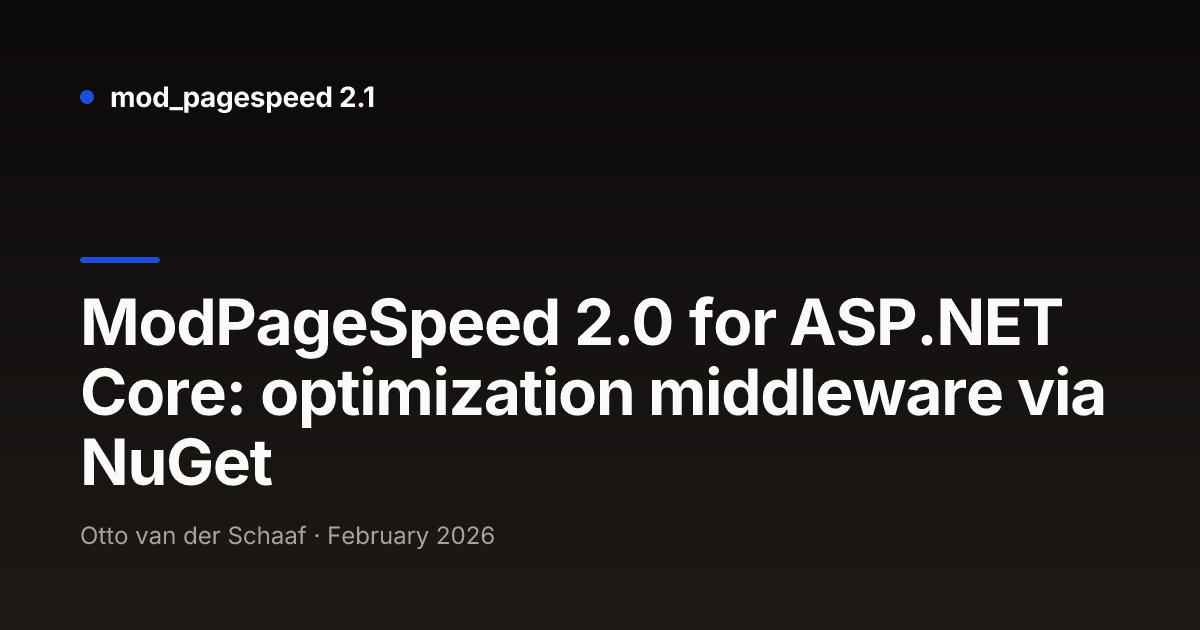
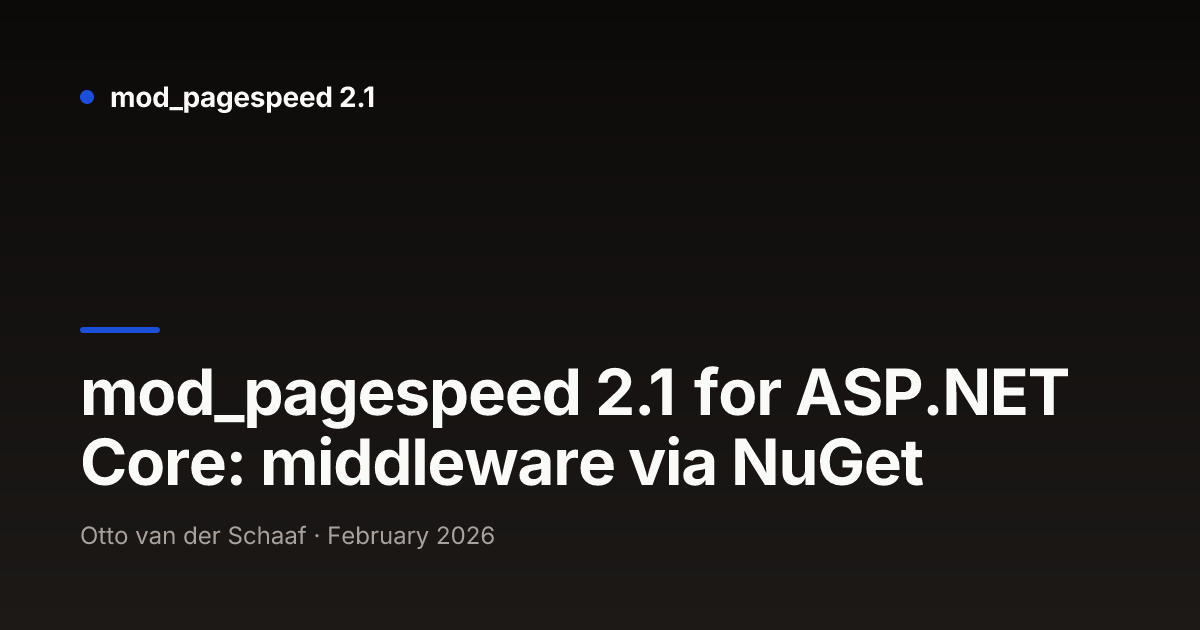
feat(website): structured data, breadcrumbs and 2.1 framing
- Split the duplicate security titles: /security/ is "Security policy and
  vulnerability reporting", /docs/security/ is "Security hardening guide".
- BreadcrumbList names the last item from the page title instead of a
  title-cased slug, and falls back to sentence case with acronyms kept
  ("AI readability", not "Ai Readability").
- SoftwareApplication JSON-LD on pricing, download and the alternatives
  pages: operatingSystem Linux and Windows, softwareVersion from the 2.1
  release manifest.
- Evergreen posts written for the 2.0 line: retitled where the content
  holds for 2.1 (ASP.NET Core middleware, cache key derivation), otherwise
  a note at the top that points at the 2.1 docs (benchmarks, Docker
  Compose, migration).
- The migration post is retitled toward 2.1 and points at the 2.1
  migration docs; "Google's mod_pagespeed" becomes "the original" or "the
  archived" mod_pagespeed everywhere it appeared.
- Regenerated llms.txt and llms-full.txt.

Changed region(s): [[0.0617, 0.4524, 0.925, 0.7841], [0.0617, 0.3921, 0.1233, 0.4222]]

diff --git a/website/src/content/blog/migrating-from-1x.md b/website/src/content/blog/migrating-from-1x.md
@@ -1,6 +1,6 @@
 ---
-title: "Migrate from Google's mod_pagespeed / ngx_pagespeed to ModPageSpeed 2.0"
-description: "Migrate from Google's mod_pagespeed 1.13.x or ngx_pagespeed to ModPageSpeed 2.0: directive mapping, Docker Compose setup, image-format checks, and a verification checklist."
+title: 'Migrate from mod_pagespeed 1.13 or ngx_pagespeed to 2.1'
+description: 'Migrating from the archived mod_pagespeed 1.13.x or ngx_pagespeed: directive mapping, image-format checks, a verification checklist, and the 2.1 path.'
 date: 2026-02-10
 author: 'Otto van der Schaaf'
 tags: ['migration', 'guide', 'nginx']
@@ -8,27 +8,29 @@ draft: false
 lastUpdated: 2026-09-06
 product: '2.0'
 faq:
-  - q: "Can I run Google's 1.13.x and 2.0 side by side?"
+  - q: "Can I run the archived 1.13.x and 2.0 side by side?"
     a: "Yes. Deploy them on different servers or different nginx server blocks. They share no state, so there is no conflict."
   - q: "Do I need to change my HTML or application code?"
     a: "No. All optimization is transparent at the reverse-proxy level. Your application serves the same responses it always has."
   - q: "Will my existing cache be preserved?"
-    a: "No. The optimizer worker uses Cyclone, a different cache format from Google's 1.13.x file cache. The cache will be cold on first start and warm up as traffic flows through."
+    a: "No. The optimizer worker uses Cyclone, a different cache format from the 1.13.x file cache. The cache will be cold on first start and warm up as traffic flows through."
 ---
+
+> Written for the ModPageSpeed 2.0 line: the Docker Compose setup and the `pagespeed_*` directives below are 2.0's. On mod_pagespeed 2.1 a 1.13 or ngx_pagespeed configuration carries over to the native module; see [migrate from the archived Google module](/docs/migrate-from-google-mod-pagespeed/) and [migrate from ngx_pagespeed](/docs/migrate-from-ngx-pagespeed/).
 
 ## What changed and why
 
-Google's mod_pagespeed 1.13.x was built around the RewriteDriver -- over 2,000 lines of orchestration code that managed a pipeline of 60+ filters, each modifying the HTML response in sequence during the request. Filters had strict ordering dependencies: `combine_css` ran before `rewrite_css`, which ran before `inline_css`, and so on. Adding a filter meant reasoning about how it interacted with every existing one.
+The original mod_pagespeed 1.13.x was built around the RewriteDriver -- over 2,000 lines of orchestration code that managed a pipeline of 60+ filters, each modifying the HTML response in sequence during the request. Filters had strict ordering dependencies: `combine_css` ran before `rewrite_css`, which ran before `inline_css`, and so on. Adding a filter meant reasoning about how it interacted with every existing one.
 
 The architecture was designed for Apache. It hooked into Apache's output filter chain, and the nginx port (`ngx_pagespeed`) adapted the filter pipeline to nginx's event-driven model. This translation layer added significant maintenance overhead, particularly around subrequest handling and connection lifecycle management.
 
 ModPageSpeed 2.0 takes a different architectural approach. The underlying optimization libraries -- the HTML parser, CSS minifier, JS minifier, and image codecs -- are individually well-tested and capable (and form the foundation of 2.0). The key change is moving orchestration out of the request path entirely, into a separate worker that optimizes content asynchronously.
 
-2.0 is a ground-up rethink: it keeps the proven PSOL optimization libraries and replaces the architecture around them. If you are running Google's mod_pagespeed 1.13.x today, this guide will walk you through what changed and how to migrate.
+2.0 is a ground-up rethink: it keeps the proven PSOL optimization libraries and replaces the architecture around them. If you are running the archived mod_pagespeed 1.13.x today, this guide will walk you through what changed and how to migrate.
 
 ## Architecture comparison
 
-Google's mod_pagespeed 1.13.x processed everything synchronously within the request:
+The original mod_pagespeed 1.13.x processed everything synchronously within the request:
 
 ```
 Client -> Apache/Nginx -> mod_pagespeed filters (sync) -> Origin
@@ -53,15 +55,15 @@ Client -> Nginx interceptor -> Cyclone Cache (mmap) -> Client
 
 The differences are significant:
 
-**Synchronous vs. asynchronous.** In Google's 1.13.x, every response was transformed in-flight, adding latency to every request. In 2.0, the first request gets the original response (served from cache with `X-PageSpeed: MISS`), and the worker optimizes it in the background. Subsequent requests get the optimized variant (`X-PageSpeed: HIT`) with zero processing overhead -- just a memory-mapped cache read.
+**Synchronous vs. asynchronous.** In the original 1.13.x, every response was transformed in-flight, adding latency to every request. In 2.0, the first request gets the original response (served from cache with `X-PageSpeed: MISS`), and the worker optimizes it in the background. Subsequent requests get the optimized variant (`X-PageSpeed: HIT`) with zero processing overhead -- just a memory-mapped cache read.
 
-**Single-process vs. multi-process.** In Google's 1.13.x, the optimization code ran inside the web server process. In 2.0, the nginx interceptor is a thin cache layer, and the worker is a separate process. They share a single Cyclone cache file with memory-mapped directories (`enable_mmap_directory = true`), so writes from either process are immediately visible to the other.
+**Single-process vs. multi-process.** In the original 1.13.x, the optimization code ran inside the web server process. In 2.0, the nginx interceptor is a thin cache layer, and the worker is a separate process. They share a single Cyclone cache file with memory-mapped directories (`enable_mmap_directory = true`), so writes from either process are immediately visible to the other.
 
 **Filter pipeline vs. content-type dispatch.** Instead of 60+ filters with ordering dependencies, the worker dispatches on content type: HTML, CSS, JavaScript, or Image. Each path runs independently. There is no filter interaction to reason about.
 
 ## Configuration mapping
 
-Many of Google's mod_pagespeed 1.13.x directives have no direct equivalent because 2.0 applies optimizations automatically based on content type. Here is a mapping of the most commonly used directives:
+Many of the original mod_pagespeed 1.13.x directives have no direct equivalent because 2.0 applies optimizations automatically based on content type. Here is a mapping of the most commonly used directives:
 
 | 1.13.x Directive                                     | 2.0 Equivalent                 | Notes                                                                                                             |
 | ---------------------------------------------------- | ------------------------------ | ----------------------------------------------------------------------------------------------------------------- |
@@ -203,9 +205,9 @@ curl -H "Accept: */*" -o /dev/null -w "%{content_type}" http://localhost/image.j
 
 ## FAQ
 
-**Can I run Google's 1.13.x and 2.0 side by side?** Yes. Deploy them on different servers or different nginx server blocks. They share no state, so there is no conflict.
+**Can I run the archived 1.13.x and 2.0 side by side?** Yes. Deploy them on different servers or different nginx server blocks. They share no state, so there is no conflict.
 
-**Will my existing cache be preserved?** No. The optimizer worker uses Cyclone, a different cache format from Google's 1.13.x file cache. The cache will be cold on first start and warm up as traffic flows through.
+**Will my existing cache be preserved?** No. The optimizer worker uses Cyclone, a different cache format from the 1.13.x file cache. The cache will be cold on first start and warm up as traffic flows through.
 
 **Do I need to change my HTML or application code?** No. All optimization is transparent at the reverse-proxy level. Your application serves the same responses it always has.
 

diff --git a/website/src/content/blog/mod-pagespeed-alternatives.md b/website/src/content/blog/mod-pagespeed-alternatives.md
@@ -14,7 +14,7 @@ If you landed here, you are probably running mod_pagespeed or ngx_pagespeed on a
 
 Short answer: the original Google project is [effectively no longer actively developed](/mod-pagespeed-still-maintained/). It has an actively maintained continuation, mod_pagespeed 2.1, built by We-Amp — the team that helped build ngx_pagespeed, maintained mod_pagespeed, and drove the project's Apache incubation. Here is the full picture.
 
-## The current state of Google's mod_pagespeed
+## The current state of the original mod_pagespeed
 
 Google open-sourced mod_pagespeed in 2010. It was a full-stack optimization module that could rewrite HTML, transcode images, minify CSS and JavaScript, inline critical resources, combine files, and defer loading. All automatically, with no application code changes. The nginx port (ngx_pagespeed) followed in 2013.
 
@@ -36,7 +36,7 @@ I maintained the original project for years. When Google moved on, I continued t
 
 ### The native in-process module
 
-mod_pagespeed 2.1 runs inside Apache and nginx as a native in-process module, with no reverse-proxy hop and the heavy optimization work handed to a separate optimizer worker. If you are running Google's mod_pagespeed today and want the closest drop-in replacement, this is it.
+mod_pagespeed 2.1 runs inside Apache and nginx as a native in-process module, with no reverse-proxy hop and the heavy optimization work handed to a separate optimizer worker. If you are running the archived mod_pagespeed today and want the closest drop-in replacement, this is it.
 
 **What stayed the same:** The filter architecture. The Apache and nginx module integration. The configuration directives. Your existing `ModPagespeed*` directives work. Your Disallow patterns work. The optimization pipeline you know (rewrite_images, rewrite_css, rewrite_javascript, prioritize_critical_css) is the same pipeline, actively maintained and tested.
 
@@ -82,7 +82,7 @@ The practical effect: the first request gets the original content (`X-PageSpeed:
 | **Admin UI**                              | Built-in `/pagespeed_admin/` console                                | Worker console and stats                                              |
 | **Windows / IIS**                         | The IIS package ships from the 1.15 packaging channel.              | In front of IIS as a reverse proxy                                    |
 | **ASP.NET Core**                          | Separately available NuGet packages                                 | Separately available NuGet packages                                   |
-| **Migration from Google's mod_pagespeed** | Drop-in (same directives)                                           | Config mapping required ([migration guide](/blog/migrating-from-1x/)) |
+| **Migration from the archived mod_pagespeed** | Drop-in (same directives)                                           | Config mapping required ([migration guide](/blog/migrating-from-1x/)) |
 | **Pricing**                               | Free (Apache-2.0); paid support optional ([see pricing](/pricing/)) | Free (Apache-2.0); paid support optional ([see pricing](/pricing/))   |
 
 **If you are already running mod_pagespeed on Apache** and it works, the native in-process module is the direct path. It integrates directly into Apache's output filter chain, reads your exact `ModPagespeed*` directives, and is maintained and tested on current distributions.
@@ -114,7 +114,7 @@ curl -I http://localhost:8080/
 # X-PageSpeed: HIT  → subsequent requests, optimized
 ```
 
-See the [getting started guide](/docs/getting-started/) for full setup instructions, or the [migration guide](/blog/migrating-from-1x/) if you are moving from Google's mod_pagespeed.
+See the [getting started guide](/docs/getting-started/) for full setup instructions, or the [migration guide](/blog/migrating-from-1x/) if you are moving from the archived mod_pagespeed.
 
 **The native module** ships prebuilt packages for Apache (`.deb`/`.rpm`) and a prebuilt, signed `nginx-module-pagespeed` for Debian 11/12/13 and Ubuntu 22.04/24.04 (amd64 + arm64), plus AlmaLinux/RHEL/Rocky 9 (x86_64 + aarch64) and 10 (x86_64) — see [Downloads](https://modpagespeed.com/download/) or [packages.modpagespeed.com](https://packages.modpagespeed.com/) for the signed apt/yum repo.
 

diff --git a/website/src/content/blog/search-console-ai-performance-report-vs-page-speed.md b/website/src/content/blog/search-console-ai-performance-report-vs-page-speed.md
@@ -1,6 +1,6 @@
 ---
-title: "Search Console's new AI performance report is not about page speed"
-description: "Google's new Search Console AI performance report measures your visibility in AI Overviews and AI Mode, not how fast your pages load. The difference, explained."
+title: "Search Console's AI performance report is not about speed"
+description: 'The Search Console AI performance report measures your visibility in AI Overviews and AI Mode, not how fast your pages load. The difference, explained.'
 date: 2026-06-09
 lastUpdated: 2026-07-04
 author: 'Otto van der Schaaf'
@@ -106,4 +106,4 @@ Yes, separately from this report. Core Web Vitals remain a ranking signal in cla
 
 ---
 
-Google's new report measures whether AI surfaces cite you, not whether your site is fast — two different problems. If the one you have is speed, see how [Google's mod_pagespeed module](/alternatives/google-pagespeed-module/) and its maintained successors compare, check [pricing](/pricing/), or run your own audit through [the analyzer](/analyze/).
+Google's new report measures whether AI surfaces cite you, not whether your site is fast — two different problems. If the one you have is speed, see how [the Google PageSpeed module](/alternatives/google-pagespeed-module/) and its maintained continuation compare, check [pricing](/pricing/), or run your own audit through [the analyzer](/analyze/).

diff --git a/website/src/content/blog/benchmarking-real-numbers.md b/website/src/content/blog/benchmarking-real-numbers.md
@@ -1,6 +1,6 @@
 ---
 title: 'Benchmarking ModPageSpeed 2.0: real numbers on real sites'
-description: 'Measured ModPageSpeed 2.0 results on e-commerce, blog, news, and portfolio sites: WebP/AVIF image savings and real LCP, FCP, CLS, and Lighthouse gains on 3G, 4G, and broadband.'
+description: 'Measured ModPageSpeed 2.0 results on e-commerce, blog, news and portfolio sites: WebP/AVIF savings and LCP, FCP, CLS and Lighthouse gains, 3G to broadband.'
 date: 2026-02-05
 lastUpdated: 2026-09-19
 author: 'Otto van der Schaaf'
@@ -10,6 +10,8 @@ product: '2.0'
 ---
 
 > **Data collected:** February 2026 · **Tested with:** ModPageSpeed 2.0
+>
+> Written for the ModPageSpeed 2.0 line, the predecessor of mod_pagespeed 2.1; the numbers below were measured on 2.0. For the current release, start with [getting started](/docs/getting-started/).
 
 ## Methodology
 

diff --git a/website/src/content/blog/cache-key-derivation-and-alternate-fallback.md b/website/src/content/blog/cache-key-derivation-and-alternate-fallback.md
@@ -1,6 +1,6 @@
 ---
-title: 'Cache key derivation in ModPageSpeed 2.0: host-scoped keys and single-pass variant fallback'
-description: 'How cache key derivation in mod_pagespeed 2.1 hashes host plus URL into one key and scores stored variants in one selector pass instead of probing many keys.'
+title: 'Cache key derivation: host-scoped keys and variant fallback'
+description: 'How cache key derivation in mod_pagespeed 2.1 hashes host plus URL into one key and scores stored variants in one selector pass instead of probing keys.'
 date: 2026-06-13
 lastUpdated: 2026-09-06
 author: 'Otto van der Schaaf'

diff --git a/website/src/content/blog/aspnet-core-middleware.md b/website/src/content/blog/aspnet-core-middleware.md
@@ -1,6 +1,6 @@
 ---
-title: 'ModPageSpeed 2.0 for ASP.NET Core: optimization middleware via NuGet'
-description: 'Run the mod_pagespeed 2.1 optimization pipeline as ASP.NET Core middleware via NuGet — image transcoding, critical CSS and cache serving in two lines of C#.'
+title: 'mod_pagespeed 2.1 for ASP.NET Core: middleware via NuGet'
+description: 'Run the mod_pagespeed 2.1 optimization pipeline as ASP.NET Core middleware from NuGet: image transcoding, critical CSS and cache serving in 2 lines of C#.'
 date: 2026-02-12
 lastUpdated: 2026-06-21
 author: 'Otto van der Schaaf'

diff --git a/website/src/content/blog/run-with-docker-compose.md b/website/src/content/blog/run-with-docker-compose.md
@@ -9,6 +9,8 @@ draft: false
 product: '2.0'
 ---
 
+> Written for the ModPageSpeed 2.0 line: the image tags and the `pagespeed_*` directives below are 2.0's. For mod_pagespeed 2.1, follow [the Docker install guide](/docs/installation-docker/).
+
 mod_pagespeed 2.1 ships as two cooperating containers. One is a worker
 that transcodes images and minifies assets; the other is an nginx interceptor
 that serves the optimized variants. Both processes share a single

diff --git a/website/src/content/docs/security.md b/website/src/content/docs/security.md
@@ -1,5 +1,5 @@
 ---
-title: 'Security'
+title: 'Security hardening guide'
 description: 'Security guidance for mod_pagespeed 2.1: restricting admin pages, domain authorization, untrusted content, CSS/XSS, cache poisoning, HTTPS, CVE patching.'
 order: 57
 group: 'Operate'
